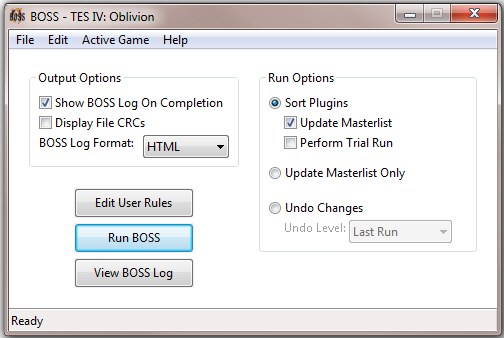
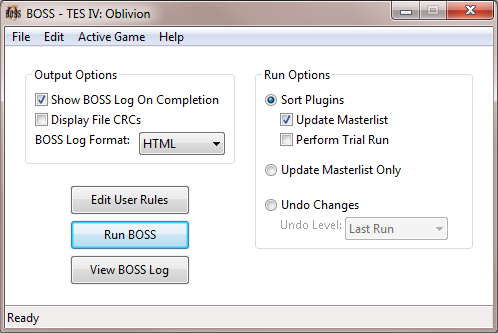
- Updated some wiki pages. - Minor adjustments to docs. - Neatly cropped readme images.
git-svn-id: http://better-oblivion-sorting-software.googlecode.com/svn@4715 bfee223e-1fc4-11de-b650-e715bd6d7cf1

diff --git a/data/boss-common/BOSS Readme.html b/data/boss-common/BOSS Readme.html
@@ -103,11 +103,11 @@
 	<li><a href="#links">Quick Links</a>
 	<li><a href="#appendix">Appendices</a>
 	<ol>
-		<li><a href="#appendix-a">Appendix A: Dirty Edits, Mod Cleaning &amp; CRCs</a>
-		<li><a href="#appendix-b">Appendix B: False-Flagged Plugins</a>
-		<li><a href="#appendix-c">Appendix C: File Permissions</a>
-		<li><a href="#appendix-d">Appendix D: International Character Support</a>
-  <li><a href="#appendix-e">Appendix E: Introduction To Load Orders</a>
+  <li><a href="#appendix-a">Appendix A: Introduction To Load Orders</a>
+		<li><a href="#appendix-b">Appendix B: Dirty Edits, Mod Cleaning &amp; CRCs</a>
+		<li><a href="#appendix-c">Appendix C: False-Flagged Plugins</a>
+		<li><a href="#appendix-d">Appendix D: File Permissions</a>
+		<li><a href="#appendix-e">Appendix E: International Character Support</a>
 	</ol>
 	<li><a href="BOSS%20Userlist%20Syntax.html">Userlist Syntax</a> (separate document)
 	<li><a href="BOSS%20Userlist%20Syntax.html">API Readme</a> (separate document - for utility developers)
@@ -124,7 +124,7 @@
 	<li>3,100+ Fallout: New Vegas plugins.
 	<li>180+ Nehrim - At Fate's Edge plugins.
 </ul>
-<p>To set the proper load order for mod plugins that BOSS doesn't know about, a good working knowledge of load ordering is still necessary. See <a href="#appendix-e">Introduction To Load Orders</a> for an overview.
+<p>To set the proper load order for mod plugins that BOSS doesn't know about, a good working knowledge of load ordering is still necessary. See <a href="#appendix-a">Introduction To Load Orders</a> for an overview.
 <p><strong>Although BOSS technically supports TES III: Morrowind, no mod plugins are recognised and no further support is planned.</strong> Morrowind users looking for an automated load order manager should consider using <a href="http://code.google.com/p/mlox/">mlox</a> instead.
 <p>BOSS sorts plugins ghosted by the <abbr title="Wrye Bash, Wrye Flash or Wrye Flash NV">Wrye *ash</abbr> utilities, and provides Bash Tag suggestions. It also provides over 10,000 plugin-specific messages, including usage notes, requirements, incompatibilities, warnings on bugs and installation mistake notifications. The positioning of plugins and the messages BOSS displays for them can be easily customised, and BOSS has a large number of options to control its features and how it displays its output.
 <p>Finally, if you're developing a modding utility and find yourself dealing with load orders, the BOSS API gives access to almost all of BOSS's functionality, plus more general load order and active status management functionality that works uniformly across all supported games. See the <a href="BOSS%20API%20Readme.html">BOSS API Readme</a> for more information on that.
@@ -135,7 +135,7 @@
 <p>The simplest way to install BOSS is to use the installer. However, the instructions below are provided if a manual install method is preferred.
 <ol>
 	<li>If updating from an earlier version of BOSS, uninstall the existing BOSS install before continuing. Any userlists you have should be moved to a temporary location while you install the BOSS update.
-	<li>Extract the <q>BOSS</q> folder the downloaded archive contains to a location of your choice. Make sure that you have the appropriate file permissions for the directory you choose. See the <a href="#appendix-c">File Permissions</a> section for more information. Note that if you install the BOSS folder to the same location as a supported game's executable, BOSS will only run for that game by default, and will not ask you to choose which game it should run for, even if you have other supported games installed.
+	<li>Extract the <q>BOSS</q> folder the downloaded archive contains to a location of your choice. Make sure that you have the appropriate file permissions for the directory you choose. See the <a href="#appendix-d">File Permissions</a> section for more information. Note that if you install the BOSS folder to the same location as a supported game's executable, BOSS will only run for that game by default, and will not ask you to choose which game it should run for, even if you have other supported games installed.
 	<li>If any of the <abbr title="Wrye Bash, Wrye Flash or Wrye Flash NV">Wrye *ash</abbr> utilities are installed, make sure their <q>BOSS Disable Lock Load Order</q><span title="previously BOSS Disable Lock Times">*</span> setting is enabled.
 	<li>If updating from an earlier version of BOSS and you moved any userlists you have to a temporary location, after you have run BOSS at least once for each game with a userlist, you will need to move your userlist(s) into the game(s) subfolders that are created within the BOSS folder.
 </ol>
@@ -525,11 +525,11 @@ a problem for which no error message is given, please report the crash or proble
 		<dd>If <code>filename</code> is the masterlist, ensure that the masterlist updater is enabled and run BOSS again to download the masterlist to the correct location.
 		<dd>Ensure <code>filename</code> exists, and that you have read permissions for the file and its parent folders.
 	<dt><code>filename</code>" cannot be written to!
-		<dd>Make sure that the file, if it exists, is not read-only, and that you have write permissions. See <a href="#appendix-c">File Permissions</a> for details on how to obtain write permissions on Windows Vista or 7.
+		<dd>Make sure that the file, if it exists, is not read-only, and that you have write permissions. See <a href="#appendix-d">File Permissions</a> for details on how to obtain write permissions on Windows Vista or 7.
 	<dt>"<code>filename</code>" is not encoded in valid UTF-8!
 		<dd>Re-save the file given in the correct "UTF-8" encoding. See <a href="#appendix-d">International Character Support</a> for instructions.
 	<dt>The order of plugins set by BOSS differs from their order in its masterlist, as one or more of the installed plugins is false-flagged.
-		<dd>See <a href="#appendix-b">False-Flagged Plugins</a> for more information.
+		<dd>See <a href="#appendix-c">False-Flagged Plugins</a> for more information.
 	<dt>Cannot find online masterlist revision number!
 	<dt>Cannot find online masterlist revision date!
 	<dt>Cannot read list of files to be updated!
@@ -545,11 +545,11 @@ a problem for which no error message is given, please report the crash or proble
 	<dt>"<code>filename</code>" cannot be renamed! Filesystem response: "<code>further details</code>".
 	<dt>"<code>filename</code>" cannot be deleted! Filesystem response: "<code>further details</code>".
 	<dt>The modification date of "<code>filename</code>" cannot be written!
-		<dd>Make sure that the file, if it exists, is not read-only, and that you have write permissions. See <a href="#appendix-c">File Permissions</a> for details on how to obtain write permissions on Windows Vista or 7.
+		<dd>Make sure that the file, if it exists, is not read-only, and that you have write permissions. See <a href="#appendix-d">File Permissions</a> for details on how to obtain write permissions on Windows Vista or 7.
 	<dt>"<code>directory</code>" cannot be created! Filesystem response: "<code>further details</code>".
-		<dd>Make sure that you have write permissions for the location the directory is being create in. See <a href="#appendix-c">File Permissions</a> for details on how to obtain write permissions on Windows Vista or 7.
+		<dd>Make sure that you have write permissions for the location the directory is being create in. See <a href="#appendix-d">File Permissions</a> for details on how to obtain write permissions on Windows Vista or 7.
 	<dt>"<code>directory</code>" cannot be scanned! Filesystem response: "<code>further details</code>".
-		<dd>Make sure that you have read permissions for the location that is being scanned. See <a href="#appendix-c">File Permissions</a> for details on how to obtain write permissions on Windows Vista or 7.
+		<dd>Make sure that you have read permissions for the location that is being scanned. See <a href="#appendix-d">File Permissions</a> for details on how to obtain write permissions on Windows Vista or 7.
 	<dt>Proxy hostname or port invalid! cURL response: "<code>further details</code>".
 		<dd>Your proxy settings for BOSS are invalid. Correct them before running BOSS again.
 	<dt>Proxy authentication username or password invalid! cURL response: "<code>further details</code>".
@@ -635,7 +635,7 @@ a problem for which no error message is given, please report the crash or proble
 		<tr class="inactive"><td style="border-right:0;">Malonn			<td style="border-left:0;">									<td class="c"><td class="c"><td class="c"><td class="c"><td class="c"><td class="t"><td class="c">
 		<tr class="inactive"><td style="border-right:0;">PacificMorrowind<td style="border-left:0;">									<td class="t"><td class="t"><td class="t"><td class="c"><td class="t"><td class="c"><td class="c">
 		<tr><td style="border-right:0;">Peste<td style="border-left:0;"><i>(ztrathego on Nexus)</i>									<td class="c"><td class="c"><td class="c"><td class="c"><td class="c"><td class="c"><td class="t">
-		<tr><td style="border-right:0;">Psymon			<td style="border-left:0;"><i>(Bethesda Softworks only)</i>	<td class="c"><td class="c"><td class="c"><td class="t"><td class="c"><td class="c"><td class="c">
+		<tr class="inactive"><td style="border-right:0;">Psymon			<td style="border-left:0;"><i>(Bethesda Softworks only)</i>	<td class="c"><td class="c"><td class="c"><td class="t"><td class="c"><td class="c"><td class="c">
 		<tr class="inactive"><td style="border-right:0;">Random007		<td style="border-left:0;">									<td class="t"><td class="t"><td class="t"><td class="c"><td class="c"><td class="c"><td class="c">
 		<tr><td style="border-right:0;">Red Eye		<td style="border-left:0;"><i>(redeye85 on Nexus)</i>				<td class="c"><td class="c"><td class="c"><td class="c"><td class="c"><td class="t"><td class="c">
 		<tr class="inactive"><td style="border-right:0;">RiddlingLynx	<td style="border-left:0;"><i>(Nexus only)</i>				<td class="c"><td class="c"><td class="t"><td class="c"><td class="c"><td class="c"><td class="c">
@@ -646,7 +646,7 @@ a problem for which no error message is given, please report the crash or proble
 		<tr><td style="border-right:0;">Tokc.D.K.		<td style="border-left:0;"><i>(Bethesda Softworks only)</i>	<td class="c"><td class="c"><td class="t"><td class="c"><td class="c"><td class="c"><td class="t">
 		<tr><td style="border-right:0;">Torrello		<td style="border-left:0;">									<td class="c"><td class="c"><td class="c"><td class="c"><td class="t"><td class="c"><td class="t">
 		<tr class="inactive"><td style="border-right:0;">Vacuity			<td style="border-left:0;">									<td class="c"><td class="c"><td class="t"><td class="c"><td class="c"><td class="c"><td class="c">
-		<tr><td style="border-right:0;">Valda			<td style="border-left:0;">									<td class="c"><td class="c"><td class="c"><td class="c"><td class="t"><td class="t"><td class="c">
+		<tr class="inactive"><td style="border-right:0;">Valda			<td style="border-left:0;">									<td class="c"><td class="c"><td class="c"><td class="c"><td class="t"><td class="t"><td class="c">
 		<tr><td style="border-right:0;">WrinklyNinja	<td style="border-left:0;">									<td class="t"><td class="t"><td class="t"><td class="c"><td class="c"><td class="c"><td class="c">
 		<tr class="inactive"><td style="border-right:0;">ZiggyX200		<td style="border-left:0;">									<td class="c"><td class="c"><td class="t"><td class="c"><td class="c"><td class="c"><td class="t">
 </table>
@@ -693,7 +693,26 @@ threads when you read this. Just navigate through to the latest thread to post a
 </ul>
 
 <h2 id="appendix">Appendices</h2>
-<h3 id="appendix-a">Appendix A: Dirty Edits, Mod Cleaning &amp; CRCs</h3>
+<h3 id="appendix-a">Appendix A: Introduction To Load Orders</h3>
+<p>This appendix provides a general overview of load ordering in the games BOSS supports for those who are unfamiliar with the concept. For simplicity, <q>the game</q> will be used when the text refers to any of the games that BOSS supports.
+<p>Mod plugins for the game are files that end in <code>.esp</code> or <code>.esm</code>. These files are created by the game's official editing tools, or by third party modders' tools. They contain various data entries. These entries can either be brand new additions, or changes to entries added by another plugin, including the game's main master file (Morrowind.esm, Oblivion.esm, Nehrim.esm, Skyrim.esm, Fallout3.esm or FalloutNV.esm depending on the game). Entries cover almost all aspects of what is in the game, eg. NPCs, items, races, interiors, worlds, quests, etc.
+<p>When the game is run, it reads the contents of the active plugins and applies their entries in the order that the plugins are read. This leads to the <q>rule of one</q>, ie. one entry can only be modified by one plugin. As such, when several plugins modify the same entry, the plugin that is read last has its changes override the other plugins' changes for that entry. There is one exception to the <q>rule of one</q>, and that is that the contents of cells (the physical space in which your character moves) can be changed by any number of plugins, so different plugins can add objects to cells, move them around or remove them and all will see their changes applied by the game.
+<p>This order in which the game reads active plugins is, unsurprisingly, what is referred to as the load order. By changing the load order, you can change which plugins override and which are overridden, and so reduce detrimental conflicts. You cannot actually reduce how much is overridden through load order alone, but it is often the case that some overrides are acceptable while others cause problems in game. Setting a good load order is the process by which you seek to maximise the former instead of the latter. That is why load order matters. 
+<p>Further compatibility between mods is then possible through the use of patches, which are made to address incompatibilities between specific mods, and through the use of Wrye Bash, which can create a <q>Bashed Patch</q> that allows you to select between types of changes for different mods. For example, two mods change a piece of armour, but one changes how it looks and the other changes its effectiveness: through load order alone you could only ever get one change, but using Wrye Bash you can get both, because they change different things in the same armour entry.
+<p>There are a few hardcoded rules that trump load order in many cases:
+<ul>
+ <li>Master plugins always load before non-master plugins. This is discussed in greater detail in <a href="appendix-c">False-Flagged Plugins</a>.
+ <li>There is a limit of 255 active plugins that can be loaded by the game. This isn't strictly a load <em>order</em> thing, but is worth mentioning.
+ <li>In Skyrim, <code>Skyrim.esm</code> always loads before all other plugins.
+ <li>In Skyrim, if <code>Update.esm</code> is present, it is always loaded. If it has no load order position set, it loads after all other master plugins. That might sound a bit odd, but thanks to Skyrim's load order mechanism, it is possible for it to have no set load order position, even though it is always loaded.
+</ul>
+<p>A plugin's position in the load order is often displayed by mod managers as a hexadecimal number, from 00 to FE (0 to 255 in decimal). The plugin with position 00 loads first, and the plugin with position FE is loaded last. Hexadecimal numbers are used to display the load order positions of plugins because these numbers form the first two digits of the code that the game uses to reference the entries that the plugin adds, so knowing the numbers is very useful to modders or anyone trying to reference entries in the in-game console, which uses these codes.
+<p>That's all that you as a mod user <em>need</em> to know about load orders. If you want to find out more about the actual mechanism by which the game decides the load order, read on.
+<p>Morrowind, Oblivion, Nehrim, Fallout 3 and Fallout: New Vegas all share the same mechanism for deciding load order (though Morrowind uses a different file to list its active load order in - but that won't be discussed here). Skyrim, since the 1.4.26 patch, uses a different mechanism.
+<p>Load order for Morrowind, Oblivion, Nehrim, Fallout 3 and Fallout: New Vegas is decided by the modification date timestamps of the mod plugins. The active plugin with the earliest date loads first, with plugins being listed in descending date order (earliest to latest). It's a bad idea for a plugin that isn't the game's main master file to load first.
+<p>Skyrim's mechanism uses the order that plugins are listed within its <code>plugins.txt</code> file as its load order (from top to bottom). This file is the one in which the list of active plugins is stored, so only active plugins can be strictly said to have a load order. As any further discussion of this and its consequences gets a bit technical, see the <a href="BOSS%20API%20Readme.html">BOSS API Readme</a> for more information.
+
+<h3 id="appendix-b">Appendix B: Dirty Edits, Mod Cleaning &amp; CRCs</h3>
 <p>Dirty edits are often a side-effect of mod creation, and are often due to bugs in the utilities Bethesda has provided to create mods, rather than bad practice by mod authors. Dirty edits can cause a wide range of issues, including incorrect game settings, missing content, broken quests and crashing to desktop. The more dirty edits there are in a mod, and the more mods with dirty edits you use, the more likely you are to experience issues.
 <p>Thankfully there is a way to remove dirty edits from mods relatively easily, a process known as <i>mod cleaning</i>, using TES4Edit (for Oblivion), FO3Edit (for Fallout 3), FNVEdit (for Fallout: New Vegas) or TES5Edit (for Skyrim). A detailed set of instructions and information on mod cleaning can be found on the CS Wiki's <a href="http://cs.elderscrolls.com/constwiki/index.php/TES4Edit_Cleaning_Guide">TES4Edit Cleaning Guide</a> (the page also applies to Fallout 3, Fallout: New Vegas and Skyrim). <abbr title="Wrye Bash, Wrye Flash or Wrye Flash NV">Wrye *ash</abbr> can also scan plugins for dirty edits and return their ITM and UDR counts, though at the time of writing it cannot clean plugins itself.
 <p>The problem of dirty edits is largely a problem of ignorance on the part of mod authors and users alike of the problems dirty mods can cause. As such, there are community efforts to raise awareness of dirty edits and cleaning. BOSS plays a key role in these efforts, as it holds the complete list of all known dirty mods, and it uses this information to provide notification messages to users for any dirty mods they have installed.
@@ -708,7 +727,7 @@ There are three key pieces of information that are used to accurately describe a
 <p><b>Note:</b> TES4Edit et al. will include a variety of <em>junk records</em> in the ITM count for a plugin, such as new empty cells that are automatically generated by the Construction Set and are almost impossible to remove. These junk records are non-harmful, and BOSS will inform users when a mod contains these to avoid confusion. This is also the source of any discrepancies between the counts produced by TES4Edit and those produced by <abbr title="Wrye Bash, Wrye Flash or Wrye Flash NV">Wrye *ash</abbr>. The latter's counts are more technically accurate, but both are acceptable for use.
 <p>There is also another type of unnecessary edit, known as a wild edit, that can also cause problems. These edits are neither Identical To Master edits nor deleted records, so cannot be automatically cleaned. Cleaning must be manually done in TES4Edit/FO3Edit/FNVEdit. BOSS can still check for plugins with these edits if the CRCs of the plugins with wild edits are known, and it can provide notification of these edits and some information on fixing them if they are reported in an official BOSS thread.
 
-<h3 id="appendix-b">Appendix B: False-Flagged Plugins</h3>
+<h3 id="appendix-c">Appendix C: False-Flagged Plugins</h3>
 <p>Whether a mod plugin is a master file or a non-master file is dependent not on its file extension (<code>.esp</code>, <code>.esm</code>), but is instead decided by the value of a setting inside the plugin file, known as its <q>master bit flag</q>. Master files have this set to <code>1</code>, and non-master files have it set to <code>0</code>. However, because ESM is an acronym for <q>Elder Scrolls Master</q>, and ESP is an acronym for <q>Elder Scrolls Plugin</q> (even for Fallout 3 and Fallout: New Vegas), most people assume that master plugins are files with <code>.esm</code> extensions, while non-master plugins are files with <code>.esp</code> extensions.
 <p>This assumption is valid for the most part, as the vast majority of masters are <code>.esm</code> files, and the vast majority of plugins are <code>.esp</code> files. However, sometimes this is not the case. When a plugin has a <code>.esm</code> extension but has a master bit flag value of <code>0</code>, or has an extension of <code>.esp</code> and a master bit flag value of <code>1</code>, the plugin is said to be <q>false-flagged</q>, as its extension does not match its master bit flag value. False-flagged plugins are most common in Fallout 3 due to the use of FO3Edit's <q>Master Update</q> feature, which turns non-master plugins into false-flagged plugins, to avoid bugs that only manifest for non-master plugins.
 <p>The distinction between masters and non-masters is important for load order because the game will always load all masters before all non-masters, regardless of whether they are listed or dated (depending on your game) as such by the mechanism used to determine load order. Earlier versions of BOSS, and most if not all mod managers, put all <code>.esm</code> files before all <code>.esp</code> files, but failed to take into account the value of the master bit flag of plugins. As such, the load order they displayed was incorrect, as it failed to take into account the game always loading masters before plugins.
@@ -716,7 +735,7 @@ There are three key pieces of information that are used to accurately describe a
 
 
 
-<h3 id="appendix-c">Appendix C: File Permissions</h3>
+<h3 id="appendix-d">Appendix D: File Permissions</h3>
 <p>If you are running Windows Vista or Windows 7, BOSS (and other modding programs) may be prevented from working correctly by the UAC security feature. There are four common workarounds to this problem:
 <ol>
 	<li>Install the game outside the <q>Program Files</q> (or <q>Program Files (x86)</q> if on 64-bit Windows). UAC prevents unauthorised edits to these folders, so by installing the game outside of them, you remove it from UAC's reach, allowing you to use mods more easily.
@@ -733,7 +752,7 @@ There are three key pieces of information that are used to accurately describe a
 	<li>In the <q>Properties</q> window, select OK to exit. You should now have Full Control permissions over your chosen folder.
 </ol>
 
-<h3 id="appendix-d">Appendix D: International Character Support</h3>
+<h3 id="appendix-e">Appendix E: International Character Support</h3>
 <p>BOSS provides support for sorting plugins containing characters from any language via the Unicode character encoding, specifically UTF-8. All BOSS's files are encoded in UTF-8 by default. However, if you accidently save a file in another encoding, or need to convert an old userlist to UTF-8, here's how to convert a text file to UTF-8:
 <ul>
 	<li>Using Notepad:
@@ -751,26 +770,6 @@ There are three key pieces of information that are used to accurately describe a
 		</ol>
 </ul>
 <p>A file only needs to be converted to the correct encoding once, thereafter it will continue to save in the correct encoding whenever you edit it. 
-
-
-<h3 id="appendix-e">Appendix E: Introduction To Load Orders</h3>
-<p>This appendix provides a general overview of load ordering in the games BOSS supports for those who are unfamiliar with the concept. For simplicity, <q>the game</q> will be used when the text refers to any of the games that BOSS supports.
-<p>Mod plugins for the game are files that end in <code>.esp</code> or <code>.esm</code>. These files are created by the game's official editing tools, or by third party modders' tools. They contain various data entries. These entries can either be brand new additions, or changes to entries added by another plugin, including the game's main master file (Morrowind.esm, Oblivion.esm, Nehrim.esm, Skyrim.esm, Fallout3.esm or FalloutNV.esm depending on the game). Entries cover almost all aspects of what is in the game, eg. NPCs, items, races, interiors, worlds, quests, etc.
-<p>When the game is run, it reads the contents of the active plugins and applies their entries in the order that the plugins are read. This leads to the <q>rule of one</q>, ie. one entry can only be modified by one plugin. As such, when several plugins modify the same entry, the plugin that is read last has its changes override the other plugins' changes for that entry. There is one exception to the <q>rule of one</q>, and that is that the contents of cells (the physical space in which your character moves) can be changed by any number of plugins, so different plugins can add objects to cells, move them around or remove them and all will see their changes applied by the game.
-<p>This order in which the game reads active plugins is, unsurprisingly, what is referred to as the load order. By changing the load order, you can change which plugins override and which are overridden, and so reduce detrimental conflicts. You cannot actually reduce how much is overridden through load order alone, but it is often the case that some overrides are acceptable while others cause problems in game. Setting a good load order is the process by which you seek to maximise the former instead of the latter. That is why load order matters. 
-<p>Further compatibility between mods is then possible through the use of patches, which are made to address incompatibilities between specific mods, and through the use of Wrye Bash, which can create a <q>Bashed Patch</q> that allows you to select between types of changes for different mods. For example, two mods change a piece of armour, but one changes how it looks and the other changes its effectiveness: through load order alone you could only ever get one change, but using Wrye Bash you can get both, because they change different things in the same armour entry.
-<p>There are a few hardcoded rules that trump load order in many cases:
-<ul>
- <li>Master plugins always load before non-master plugins. This is discussed in greater detail in <a href="appendix-b">Appendix B: False-Flagged Plugins</a>.
- <li>There is a limit of 255 active plugins that can be loaded by the game. This isn't strictly a load <em>order</em> thing, but is worth mentioning.
- <li>In Skyrim, <code>Skyrim.esm</code> always loads before all other plugins.
- <li>In Skyrim, if <code>Update.esm</code> is present, it is always loaded. If it has no load order position set, it loads after all other master plugins. That might sound a bit odd, but thanks to Skyrim's load order mechanism, it is possible for it to have no set load order position, even though it is always loaded.
-</ul>
-<p>A plugin's position in the load order is often displayed by mod managers as a hexadecimal number, from 00 to FE (0 to 255 in decimal). The plugin with position 00 loads first, and the plugin with position FE is loaded last. Hexadecimal numbers are used to display the load order positions of plugins because these numbers form the first two digits of the code that the game uses to reference the entries that the plugin adds, so knowing the numbers is very useful to modders or anyone trying to reference entries in the in-game console, which uses these codes.
-<p>That's all that you as a mod user <em>need</em> to know about load orders. If you want to find out more about the actual mechanism by which the game decides the load order, read on.
-<p>Morrowind, Oblivion, Nehrim, Fallout 3 and Fallout: New Vegas all share the same mechanism for deciding load order (though Morrowind uses a different file to list its active load order in - but that won't be discussed here). Skyrim, since the 1.4.26 patch, uses a different mechanism.
-<p>Load order for Morrowind, Oblivion, Nehrim, Fallout 3 and Fallout: New Vegas is decided by the modification date timestamps of the mod plugins. The active plugin with the earliest date loads first, with plugins being listed in descending date order (earliest to latest). It's a bad idea for a plugin that isn't the game's main master file to load first.
-<p>Skyrim's mechanism uses the order that plugins are listed within its <code>plugins.txt</code> file as its load order (from top to bottom). This file is the one in which the list of active plugins is stored, so only active plugins can be strictly said to have a load order. As any further discussion of this and its consequences gets a bit technical, see the <a href="BOSS%20API%20Readme.html">BOSS API Readme</a> for more information.
 
 <script>
 function nextImage(imgs, i){

diff --git a/data/boss-common/BOSS Userlist Syntax.html b/data/boss-common/BOSS Userlist Syntax.html
@@ -290,7 +290,7 @@ bgBalancingEVOptionalNPCDiversity, Vanilla.esp
 	<li>You cannot sort a plugin relative to another plugin that is not in the masterlist and has not been sorted by a previous rule.
 	<li>You cannot include conditionals in any messages added through user rules. While BOSS will not display any errors, the message will be added as if it were a note with no conditional.
 	<li>You cannot sort mods or groups relative to themselves.
-	<li>You cannot sort a non-master plugin before a master, or a master after a non-master plugin. Masters are commonly <code>.esm</code> files, and non-master plugins are commonly <code>.esp</code> files, but whether a plugin is a master or not is actually decided by a variable in the file, not the file extension. See <a href="BOSS%20Readme.html#appendix-b">Appendix B: False-Flagged Plugins</a> of the main readme for more information.
+	<li>You cannot sort a non-master plugin before a master, or a master after a non-master plugin. Masters are commonly <code>.esm</code> files, and non-master plugins are commonly <code>.esp</code> files, but whether a plugin is a master or not is actually decided by a variable in the file, not the file extension. See <a href="BOSS%20Readme.html#appendix-c">False-Flagged Plugins</a> of the main readme for more information.
 	<li>
 		<p><b>Rules are applied in the order they are listed</b>. This means you can have several rules sorting different rule objects relative to the same sort object, or have rules sorting rule objects relative to sort objects that were sorted in previous rules.
 		For example:
